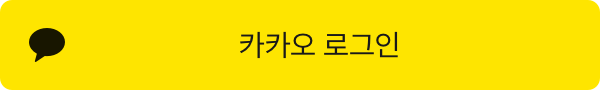
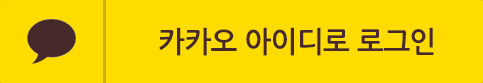
[FEAT] 로그인 페이지 틀 작업 #4

diff --git a/src/main/webapp/css/member/login.css b/src/main/webapp/css/member/login.css
@@ -1,0 +1,73 @@
+@charset "UTF-8";
+@font-face {
+    font-family: 'NanumSquare';
+    src: url('https://cdn.rawgit.com/moonspam/NanumSquare/master/nanumsquare.css%27');
+    font-weight:normal;
+    font-style: normal;
+}
+@font-face {
+    font-family: 'HaenamFont';
+    src: url('https://cdn.jsdelivr.net/gh/projectnoonnu/noonfonts_2202-2@1.0/HaenamFont.woff') format('woff');
+    font-weight: normal;
+    font-style: normal;
+}
+#loginContainer{
+	font-family: 'NanumSquare';
+	width:50vw;
+	height:60vh;
+	position:absolute;
+	top: 50%;
+ 	left: 50%;
+ 	transform: translate(-50%, -50%);
+ 	border-radius:25px;
+ 	box-shadow:0 0 20px rgba(0,0,0,50%);
+}
+/*=====로고 영역=========*/
+#logoContainer{
+	width:50%;
+	height:100%;
+	float:left;
+	background-color:rgba(0,0,0,10%);
+	border-top-left-radius:25px;
+	border-bottom-left-radius:25px;
+	position:relative;
+}
+#logo{
+	width:200px;
+	height:200px;
+	display:block;
+	position:absolute;
+	top:50%;
+	left:50%;
+	margin-top:-100px;
+	margin-left:-100px;	
+}
+/*=====로그인 입력, 버튼 영역=========*/
+#loginInfoContainer{
+	width:50%;
+	height:100%;
+	display:inline-block;
+	text-align:center;
+	border-top-right-radius:25px;
+	border-bottom-right-radius:25px;
+	text-align:center;
+	background-color:rgba(0,0,0,30%);
+}
+#loginTitle{
+	font-family: 'HaenamFont';
+	font-size:2.5em;
+	font-weight:900;
+	letter-spacing:5px;
+	margin: 85px 0px;
+	color:rgba(0,0,0,60%);
+}
+#loginFrm ul{
+	margin:0 !important;
+	list-style-type:none;
+}
+.otherLogin img{
+ 	width:300px; 
+ 	height:50px;
+ 	margin:10px 0px;
+ 	border-radius:10px;
+}

diff --git a/src/main/java/com/tworaveler/tlog/member/MemberController.java b/src/main/java/com/tworaveler/tlog/member/MemberController.java
@@ -1,16 +1,8 @@
 package com.tworaveler.tlog.member;
 
-import java.io.IOException;
-
-import javax.servlet.http.HttpServletResponse;
-import javax.servlet.http.HttpSession;
-
-import org.json.JSONObject;
 import org.springframework.stereotype.Controller;
 import org.springframework.web.bind.annotation.GetMapping;
 import org.springframework.web.bind.annotation.RequestMapping;
-import org.springframework.web.servlet.ModelAndView;
-import org.springframework.web.servlet.mvc.support.RedirectAttributes;
 
 @Controller
 @RequestMapping("/member/")
@@ -42,4 +34,10 @@ public class MemberController {
 	 * if(userInfo.getVerify()==1) { return "redirect:/admin/adminMain"; }else {
 	 * return "redirect:/"; } }else { redirect.addFlashAttribute("kakaoVO",
 	 * kakaoVO); return "redirect:signup"; } } // 구글 로그인
-	 */}
+	 */
+	
+	@GetMapping("login")
+	public String loginForm() {
+		return "member/login";
+	}
+}
